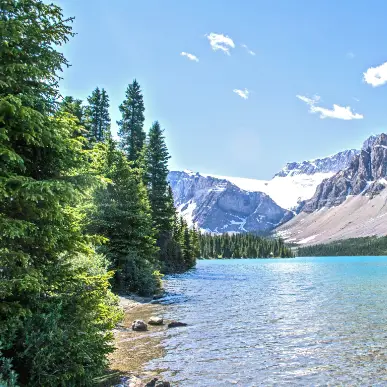
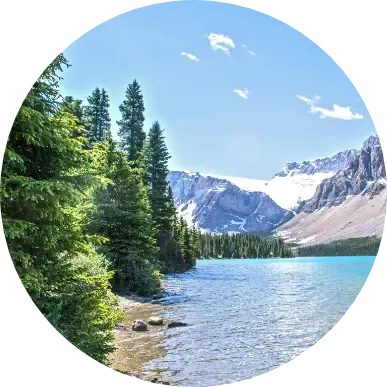
more jpg alternatives to webp

diff --git a/layouts/miscellaneous/sustainable-web-design.html b/layouts/miscellaneous/sustainable-web-design.html
@@ -49,8 +49,12 @@
         height="495"
     >
     <p> It's also worth noting that, on average, web pages have become heavier over time as the graph below shows. From 1 January 2020 to 1 January 2023, web pages have increased in size significantly - 126% on desktop and 305% on mobile. The solid lines show the median values; the shaded areas are the values between the 10th and 90th percentiles. You can <a href="https://httparchive.org/reports/page-weight?start=2021_01_01&end=latest&view=list" rel="noopener,noreferrer, nofollow">explore this data in more detail</a>. On desktop, the median size of a web page is now nearly 2.5MB.</p>
-    <img srcset="/images/misc/growth-web-page-weight-800.webp 800w,
-        /images/misc/growth-web-page-weight-500.webp 500w"
+    <picture>
+      <source srcset="/images/misc/growth-web-page-weight-800.webp 800w,
+      /images/misc/growth-web-page-weight-500.webp 500w" type="image/webp" >
+      <source srcset="/images/misc/growth-web-page-weight-800.jpg 800w,
+      /images/misc/growth-web-page-weight-500.jpg 500w" type="image/jpeg" >
+      <img 
         src="/images/misc/growth-web-page-weight-800.webp"
         alt="graph of web page carbon emissions"
         decoding="async"
@@ -58,6 +62,7 @@
         width="800"
         height="533"
     >
+  </picture>
   </article>
 </section>
 

diff --git a/layouts/_default/home.html b/layouts/_default/home.html
@@ -67,7 +67,10 @@
           <a class="primary-btn" href="/services/">Services<svg aria-hidden="true"><use xlink:href="/icons/icon-defs.svg#icon-arrow-right-bold"></use></svg></a>
         </p>
       </div>
-      <img src="/images/misc/forest-lake.webp" alt="forest and lake" width="387" height="387" decoding="async" loading="lazy">
+      <picture>
+        <source srcset="/images/misc/forest-lake.webp" type="image/webp">
+        <img src="/images/misc/forest-lake.jpg" alt="forest and lake" width="387" height="387" decoding="async" loading="lazy">
+      </picture>
     </article>
     <svg class="arrow-down" aria-hidden="true"><use xlink:href="/icons/icon-defs.svg#icon-arrow-down"></use></svg>
   </div>

diff --git a/layouts/partials/hero.html b/layouts/partials/hero.html
@@ -21,5 +21,5 @@
 
     </article>
   </div>
-  <img src="../../images/misc/cloud-blur3.webp" width="1200" height="300" alt="cloud" decoding="async" aria-hidden="true">
+  <img src="../../images/misc/cloud-blur3.png" width="1200" height="300" alt="cloud" decoding="async" aria-hidden="true">
 </section>

diff --git a/content/contact.md b/content/contact.md
@@ -6,7 +6,7 @@ metaDesc: "Feel free to contact us so we can discuss how we can help your busine
 hero:
   h1: "Partner with us<br>for a better<br>business<br>website"
   p1: "We'd be delighted to hear from you and to understand how we can help you to grow your business through your website. There's no obligation, of course, and we're always happy to have a conversation to see what we can offer and if we are a good fit for you."
-  imgSrc: "../images/misc/forest-tree3.webp"
+  imgSrc: "../images/misc/forest-tree3"
   imgAlt: "Contact us for high-performing, low-carbon websites, delivering value to your business. (Photo by Елена Рудакова from Pexels: https://www.pexels.com/photo/sunbeams-over-green-tree-18320024/)"
 pageRobots: "noindex,follow"
 extraStyles: "/css/contact.css"

diff --git a/content/services/_index.md b/content/services/_index.md
@@ -5,7 +5,7 @@ hero:
   h1: "Services you<br>need to promote <br>your business<br>on the internet"
   p1: "To help your business make the most from the opportunities the internet offers, we provide a wide range of professional services to our clients."
   p2: "These include detailed search engine optimisation to improve the visibility of your organisation online and creative design to help you stand out from the crowd."
-  imgSrc: "/images/misc/forest-tree5.webp"
+  imgSrc: "/images/misc/forest-tree5"
   imgAlt: "Services you need to promote your website on the internet. (Photo by Pixabay from Pexels: https://www.pexels.com/photo/tree-with-brunch-and-green-leaves-during-sunset-70365/)"
 extraStyles: "/css/services.css"
 ctaText: "Let's talk about growing your business"

diff --git a/content/sustainable-web-design.md b/content/sustainable-web-design.md
@@ -7,7 +7,7 @@ hero:
   h1: "Sustainable<br>Web Design.<br>A better now -<br>a better future"
   p1: "The purpose of sustainable web design is to create effective websites that emphasise People and Planet as well as Profit."
   p2: "These three objectives are not mutually exclusive, and it's entirely feasible to develop high-performance websites that successfully align with all three goals."
-  imgSrc: "/images/misc/forest-tree2.webp"
+  imgSrc: "/images/misc/forest-tree2"
   imgAlt: "Effective, high-performing, low carbon websites, delivering value to your business. (Photo by Felix Mittermeier from Pexels: https://www.pexels.com/photo/worms-eyeview-of-green-trees-957024/)"
 extraStyles: "/css/sustainable-web-design.css"
 extraJS: "/js/faqs.js"

diff --git a/content/website-creation/_index.md b/content/website-creation/_index.md
@@ -5,7 +5,7 @@ hero:
   h1: "We create<br>high-performing<br>low-carbon<br>business<br>websites"
   p1: "We specialise in creating unique, modern, responsive websites that deliver value to your organisation."
   p2: "Our websites don't just look professional but genuinely ARE professional through and through. This includes detailed search engine optimisation to improve the visibility of your site online."
-  imgSrc: "/images/misc/forest-tree4.webp"
+  imgSrc: "/images/misc/forest-tree4"
   imgAlt: "Effective, high-performing, low carbon websites, delivering value to your business. (Photo by Marta Wave from Pexels: https://www.pexels.com/photo/autumn-leaves-on-thin-twigs-of-branch-5875939/)"
 weight: 10
 url: "/services/website-creation/"

diff --git a/content/about.md b/content/about.md
@@ -5,7 +5,7 @@ hero:
   h1: "A web agency<br>committed to<br><span>people, planet</span><br>and your <span>profit</span>"
   p1: "We work collaboratively with our clients to help them succeed using the internet."
   p2: "We put our knowledge and expertise into crafting online experiences that genuinely promote clients’ businesses. We love what we do and we’d be delighted to work with you and your business."
-  imgSrc: "/images/misc/forest-tree2.webp"
+  imgSrc: "/images/misc/forest-tree2"
   imgAlt: "Effective, high-performing, low carbon websites, delivering value to your business. (Photo by Felix Mittermeier from Pexels: https://www.pexels.com/photo/worms-eyeview-of-green-trees-957024/)"
 extraStyles: "/css/about.css"
 ---
